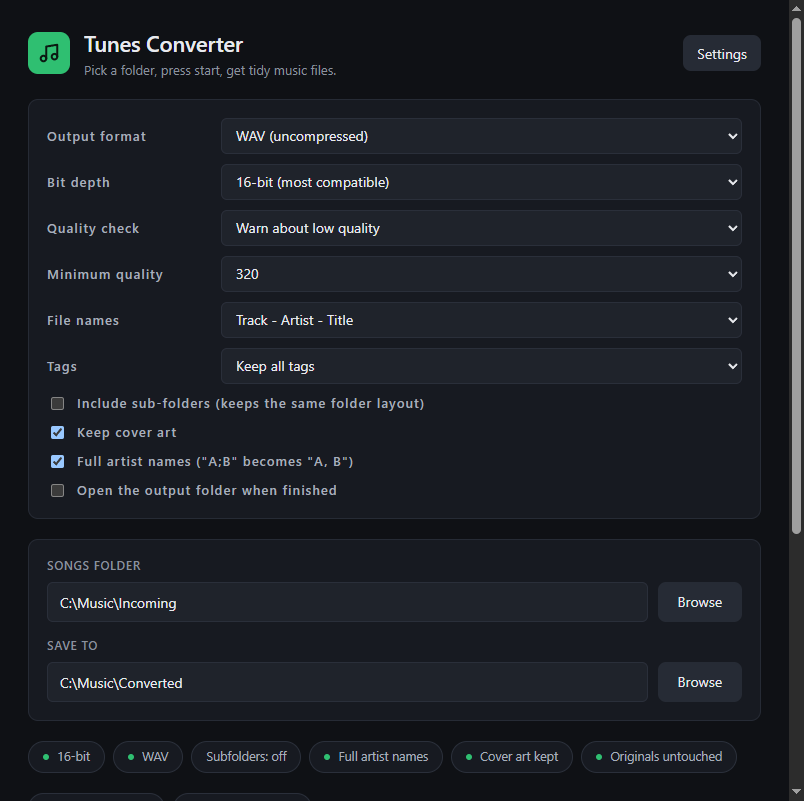
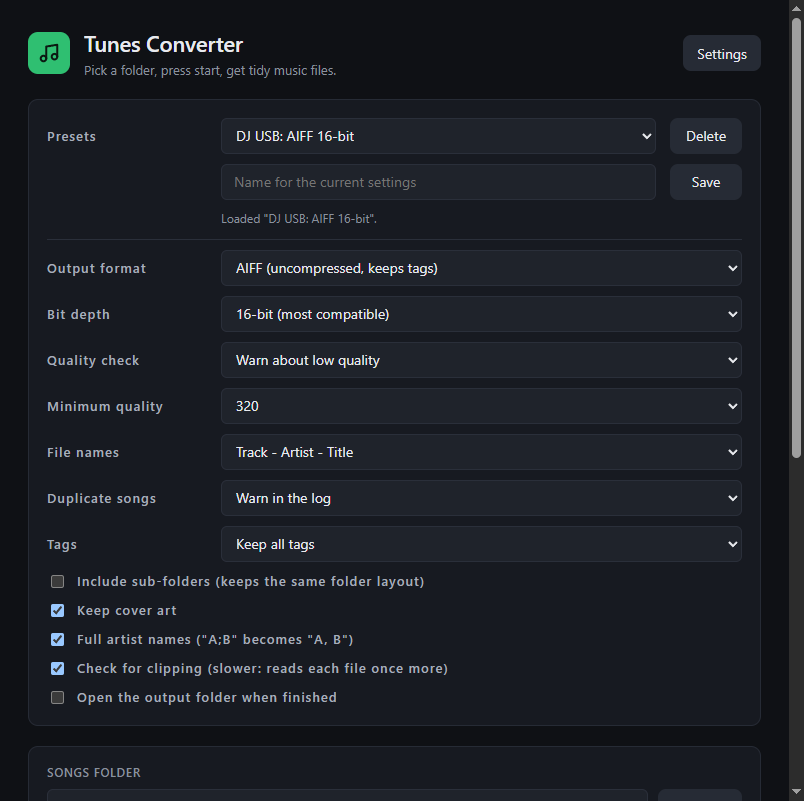
README: AIFF line, refreshed screenshots for 2.3.0

diff --git a/README.md b/README.md
@@ -20,10 +20,11 @@ MP3 · AAC · FLAC · WAV · AIFF · Opus — with correct names, tags and an op
 
 - **Pick your format:** MP3 at 320 kbps by default (via ffmpeg/LAME), or **AAC (M4A), FLAC, WAV, AIFF or Opus**.
 - **Made for DJs:** WAV, AIFF and FLAC come out at **16-bit** (the most compatible) or 24-bit. Sources stored as
-  **32-bit float** are converted down to the depth you choose, dithered at 16-bit. **AIFF** keeps tags and cover art (WAV tags are poorly supported by Rekordbox and CDJs).
+  **32-bit float** are converted down to the depth you choose, dithered at 16-bit.
+- **AIFF for Rekordbox and CDJs:** uncompressed like WAV, but it keeps tags and cover art, which WAV tags often lose.
 - **Presets:** save your settings under a name (e.g. "DJ USB: AIFF 16-bit") and load them with one click.
 - **Duplicate songs:** the same song in two files or formats is flagged in the log, or the extra copies are skipped.
-- **Clipping check (optional):** warns about tracks that are clipped or peak above 0 dBFS.
+- **Clipping check (optional):** flags tracks with possible clipping or peaks above 0 dBFS.
 - **Correct names:** files become `Artist - Title` by default. Tracks with several artists in separate tags
   (e.g. `ARTIST=Pola & Bryson` + `ARTIST=Cimone`) become `Pola & Bryson, Cimone - Title` instead of keeping only
   the last artist. Pick another pattern or write your own with `{artist}` `{title}` `{album}` `{albumartist}`
